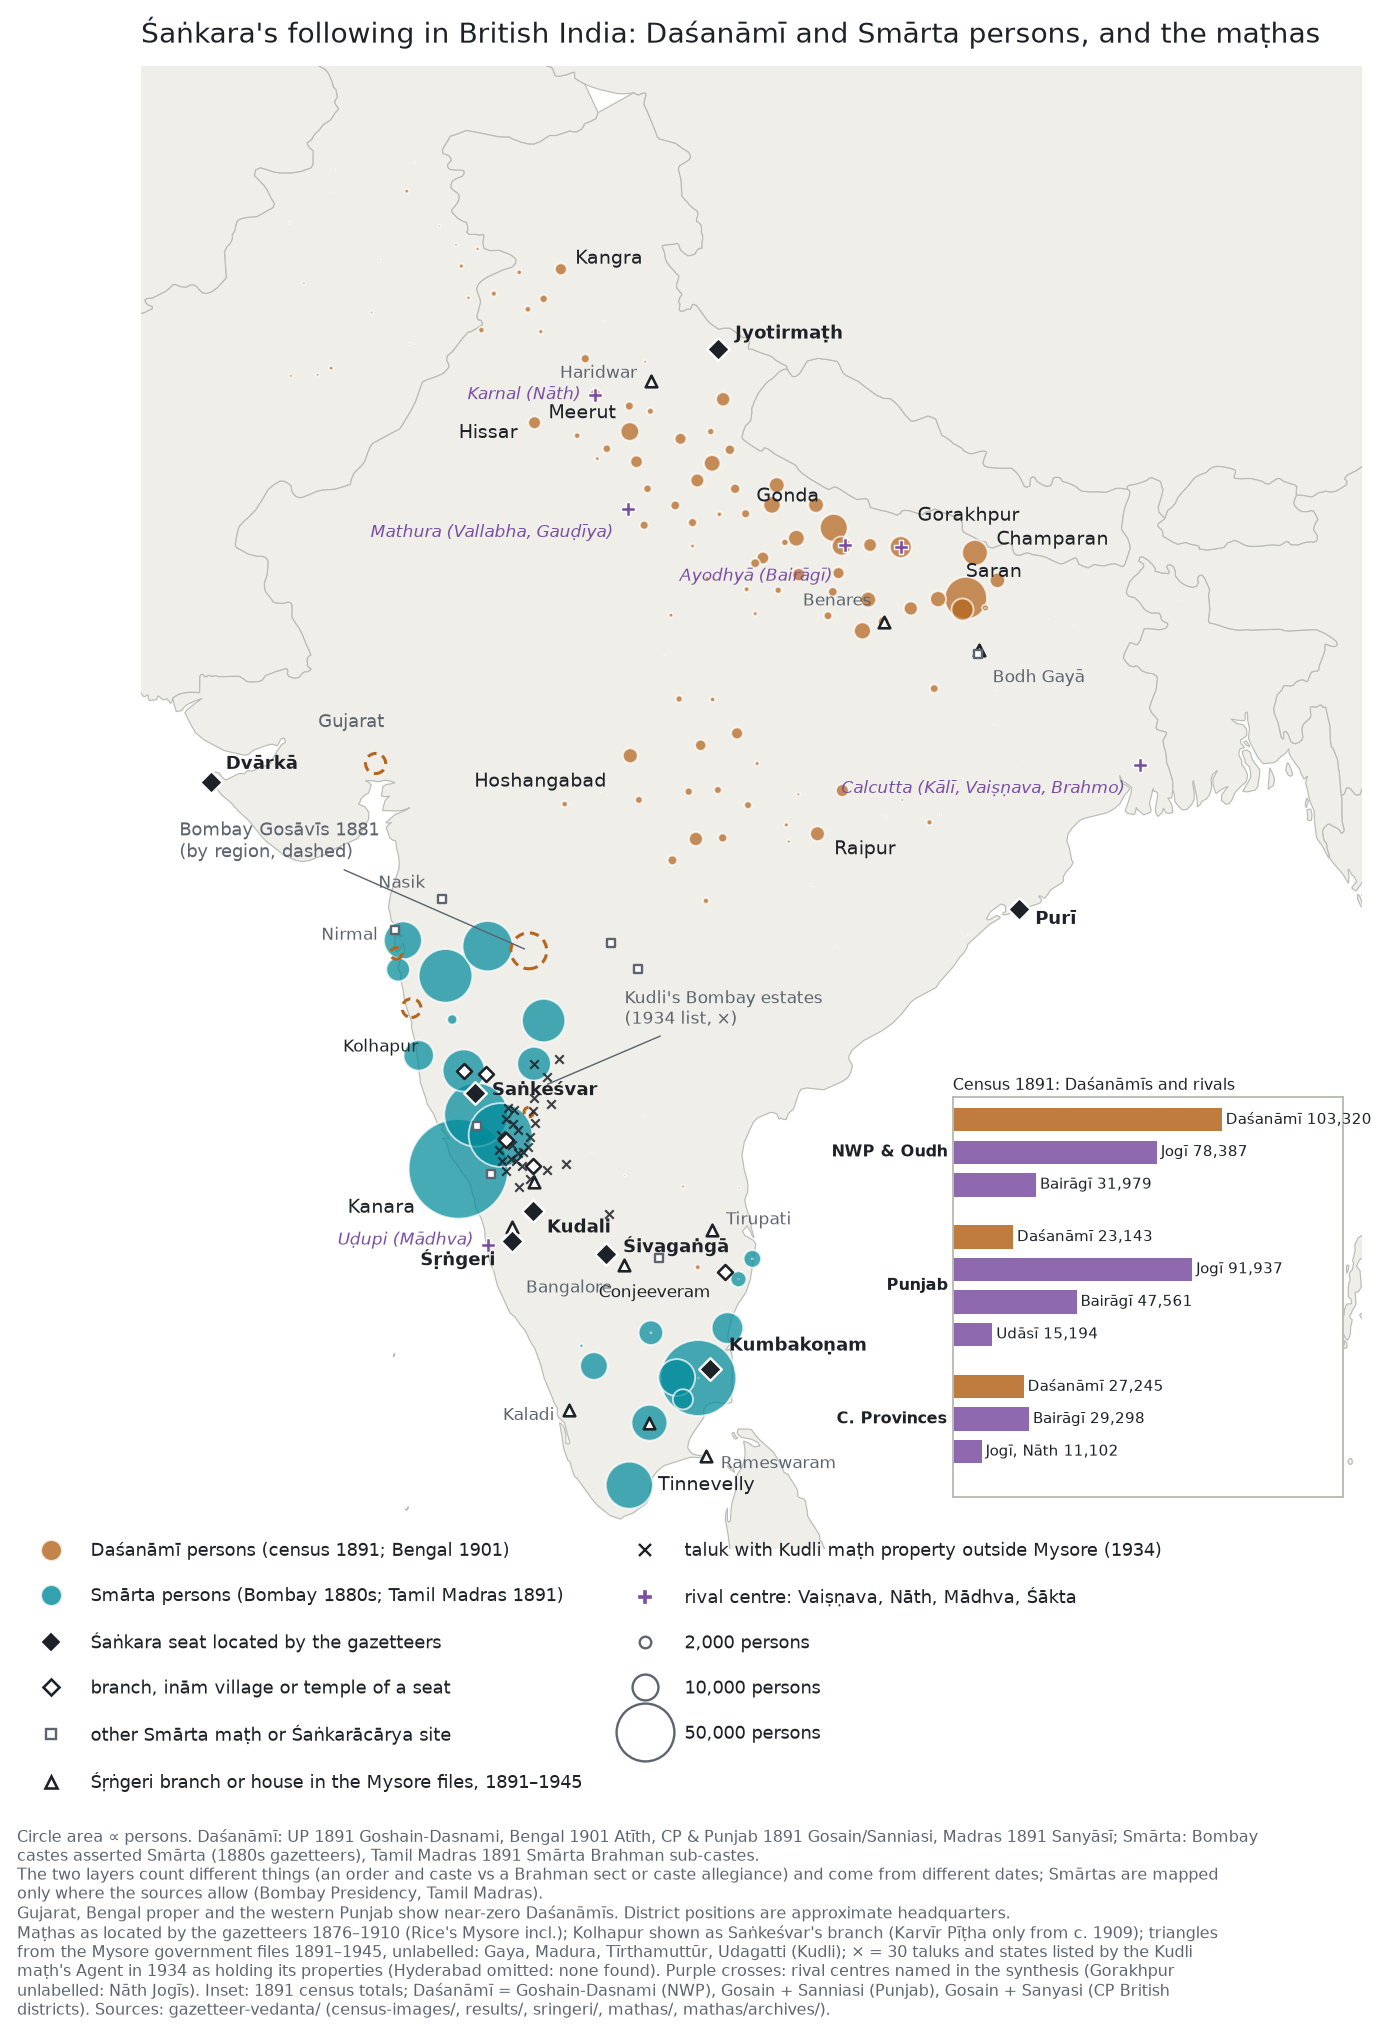
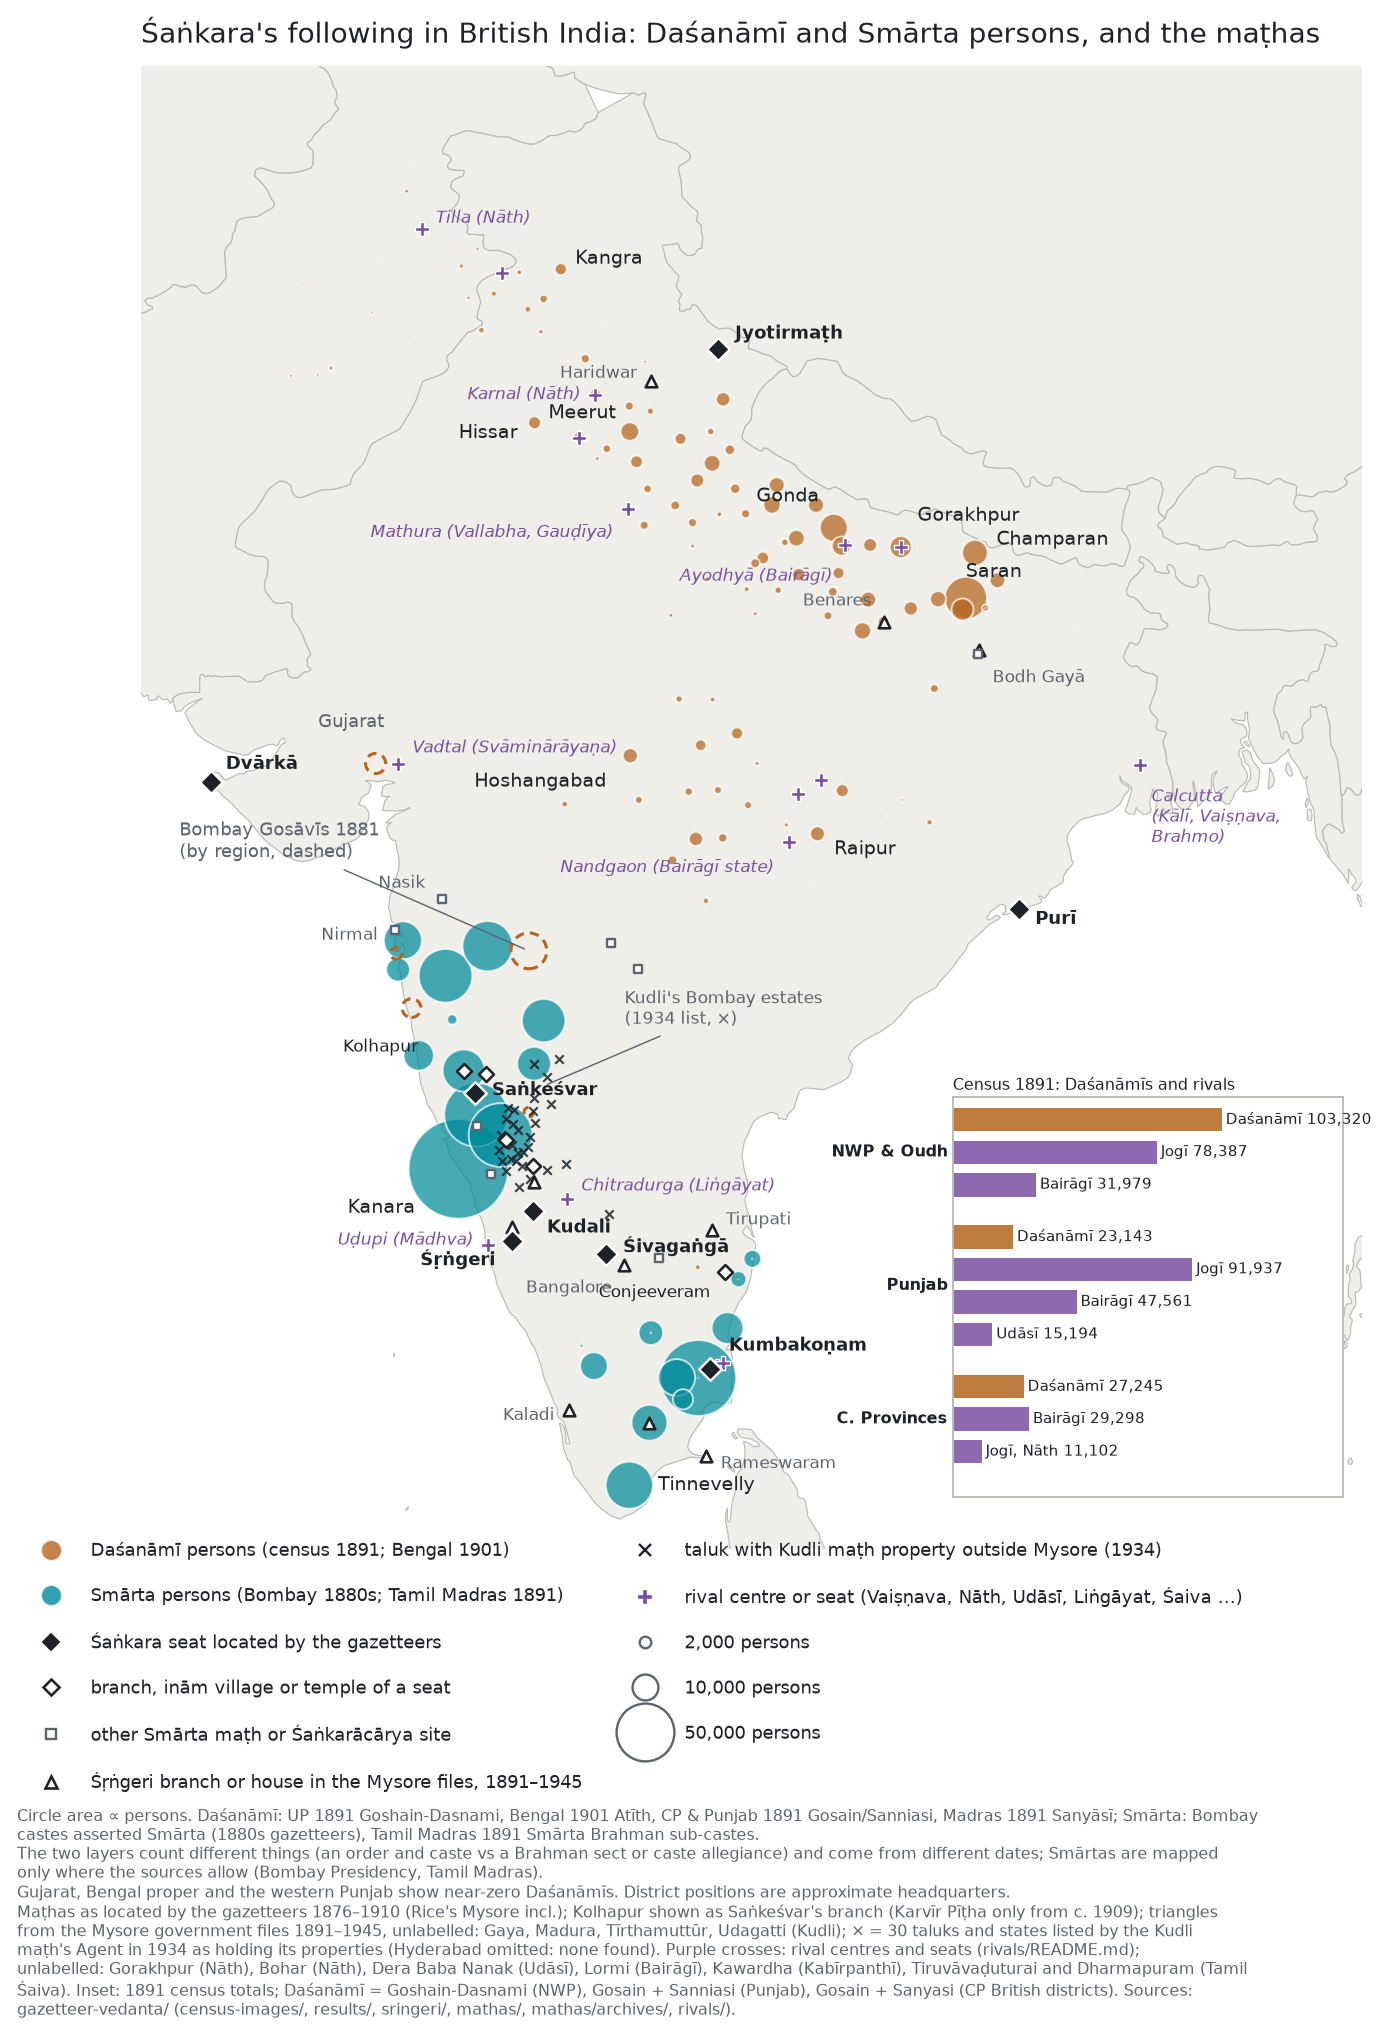
gazetteer-vedanta/map: rival seats from the rivals layer added to the combined map

Changed region(s): [[0.0, 0.8969, 0.8984, 0.9897], [0.5886, 0.7732, 0.8055, 0.8041], [0.8365, 0.3711, 0.8674, 0.4021]]

diff --git a/gazetteer-vedanta/SYNTHESIS.html b/gazetteer-vedanta/SYNTHESIS.html
@@ -111,7 +111,7 @@ footer{font-family:var(--sans);font-size:13.5px;color:var(--muted);border-top:1p
   </table></div>
   <figure class="map">
     <a href="map/combined_map.png"><img src="map/combined_map.png" alt="Map of British India. Ochre circles for Daśanāmī persons form a belt across the Ganges plain, largest in eastern UP and Bihar (Saran, Gorakhpur, Gonda, Champaran), thin in the Central Provinces and the Punjab. Teal circles for Smārta persons cluster on the Bombay Konkan and Karnatak, largest in Kanara and Dharwar, and in the Tamil delta, largest in Tanjore. Black diamonds mark the Śaṅkara seats: Śṛṅgeri, Saṅkeśvar, Kudali, Śivagaṅgā and Kumbakoṇam in the south and west, Dvārkā, Purī and Jyotirmaṭh at the edges." loading="lazy"></a>
-    <figcaption>All six regions on one map. Circle area is proportional to persons. <em class="ochre">Daśanāmīs</em> come from the census: UP, Punjab, CP and Madras 1891, Bengal 1901 (Atīths), and Bombay 1881 Gosāvīs by region only (dashed). <em class="teal">Smārtas</em> come from Bombay castes the 1880s gazetteers call Smārta and from Tamil Madras Smārta Brahman sub-castes (1891). The layers count different things at different dates, and Smārtas are mapped only where the sources allow. Black diamonds mark the Śaṅkara seats the gazetteers locate (1876–1910, Rice’s Mysore included); open diamonds mark their branches, inām villages and temples; small squares mark other Smārta maṭhs and Śaṅkarācārya sites. Triangles mark Śṛṅgeri’s branch maṭhs and houses named in the Mysore government files of 1891–1945 (Rameswaram, Kaladi, Tirupati, Bangalore, Haridwar, Benares, Gaya, Madura, Tīrthamuttūr) and Kudli’s Bombay residence at Udagatti. Small crosses mark the 30 taluks and states outside Mysore that the Kudli maṭh’s Agent listed in 1934 as holding its properties: Dharwar, Bijapur, Belgaum, North Kanara, Bellary, Anantapur and the southern Maratha states. Purple crosses mark the rival centres noted below (“Rivals”): Ayodhyā (Bairāgī), Mathura (Vallabha, Gauḍīya), Gorakhpur and Karnal (Nāth), Uḍupi (Mādhva) and Calcutta (Kālī, Vaiṣṇava, Brahmo). The inset in the Bay of Bengal compares the 1891 census totals of the Daśanāmīs with the Jogīs, Bairāgīs and Udāsīs in the NWP and Oudh, the Punjab and the Central Provinces. Kolhapur appears as Saṅkeśvar’s branch, since it became the Karvīr Pīṭha only about 1909. Positions are approximate district headquarters.</figcaption>
+    <figcaption>All six regions on one map. Circle area is proportional to persons. <em class="ochre">Daśanāmīs</em> come from the census: UP, Punjab, CP and Madras 1891, Bengal 1901 (Atīths), and Bombay 1881 Gosāvīs by region only (dashed). <em class="teal">Smārtas</em> come from Bombay castes the 1880s gazetteers call Smārta and from Tamil Madras Smārta Brahman sub-castes (1891). The layers count different things at different dates, and Smārtas are mapped only where the sources allow. Black diamonds mark the Śaṅkara seats the gazetteers locate (1876–1910, Rice’s Mysore included); open diamonds mark their branches, inām villages and temples; small squares mark other Smārta maṭhs and Śaṅkarācārya sites. Triangles mark Śṛṅgeri’s branch maṭhs and houses named in the Mysore government files of 1891–1945 (Rameswaram, Kaladi, Tirupati, Bangalore, Haridwar, Benares, Gaya, Madura, Tīrthamuttūr) and Kudli’s Bombay residence at Udagatti. Small crosses mark the 30 taluks and states outside Mysore that the Kudli maṭh’s Agent listed in 1934 as holding its properties: Dharwar, Bijapur, Belgaum, North Kanara, Bellary, Anantapur and the southern Maratha states. Purple crosses mark the rival centres noted below (“Rivals”): Ayodhyā (Bairāgī), Mathura (Vallabha, Gauḍīya), Gorakhpur and Karnal (Nāth), Uḍupi (Mādhva) and Calcutta (Kālī, Vaiṣṇava, Brahmo). They also mark the rival seats found by the coding of the rivals: Tilla and Bohar (Nāth), Dera Baba Nanak (Udāsī), Nandgaon and Lormi (Bairāgī), Kawardha (Kabīrpanthī), Chitradurga (Liṅgāyat), Vadtal (Svāminārāyaṇa), and Tiruvāvaḍuturai and Dharmapuram (Tamil Śaiva). The inset in the Bay of Bengal compares the 1891 census totals of the Daśanāmīs with the Jogīs, Bairāgīs and Udāsīs in the NWP and Oudh, the Punjab and the Central Provinces. Kolhapur appears as Saṅkeśvar’s branch, since it became the Karvīr Pīṭha only about 1909. Positions are approximate district headquarters.</figcaption>
   </figure>
 </section>
 

diff --git a/gazetteer-vedanta/map/plot_combined.py b/gazetteer-vedanta/map/plot_combined.py
@@ -208,7 +208,18 @@ RIVALS = [
     (26.76, 83.37, "", 0, 0, "left"),               # Gorakhpur: Nāth Jogīs (district already labelled)
     (29.69, 76.99, "Karnal (Nāth)", -0.3, 0.0, "right"),
     (13.34, 74.75, "Uḍupi (Mādhva)", -0.3, 0.1, "right"),
-    (22.57, 88.36, "Calcutta (Kālī, Vaiṣṇava, Brahmo)", -0.3, -0.45, "right"),
+    (22.57, 88.36, "Calcutta\n(Kālī, Vaiṣṇava,\nBrahmo)", 0.25, -1.0, "left"),
+    # rival seats from the coded rivals layer (rivals/README.md)
+    (32.88, 73.36, "Tilla (Nāth)", 0.3, 0.2, "left"),
+    (28.86, 76.65, "", 0, 0, "left"),               # Bohar: Nāth maṭh (Rohtak)
+    (32.03, 75.03, "", 0, 0, "left"),               # Dera Baba Nanak: Udāsī
+    (21.10, 81.03, "Nandgaon (Bairāgī state)", -0.3, -0.5, "right"),
+    (22.28, 81.70, "", 0, 0, "left"),               # Lormi: Bairāgī estate
+    (22.01, 81.23, "", 0, 0, "left"),               # Kawardha: Kabīrpanthī gaddī
+    (11.03, 79.53, "", 0, 0, "left"),               # Tiruvāvaḍuturai: Tamil Śaiva ādhīnam
+    (11.08, 79.65, "", 0, 0, "left"),               # Dharmapuram: Tamil Śaiva ādhīnam
+    (14.23, 76.40, "Chitradurga (Liṅgāyat)", 0.3, 0.25, "left"),
+    (22.60, 72.87, "Vadtal (Svāminārāyaṇa)", 0.3, 0.3, "left"),
 ]
 ax.scatter([r[1] for r in RIVALS], [r[0] for r in RIVALS], marker="P", s=34, c="#7a4fa3", edgecolors="white",
            linewidths=0.6, zorder=7)
@@ -284,7 +295,7 @@ handles = [Line2D([], [], marker="o", ls="", ms=9, mfc=OCHRE, mec="white", alpha
            Line2D([], [], marker="s", ls="", ms=4, mfc="white", mec=MUTED, label="other Smārta maṭh or Śaṅkarācārya site"),
            Line2D([], [], marker="^", ls="", ms=5.5, mfc="white", mec=INK, mew=1.1, label="Śṛṅgeri branch or house in the Mysore files, 1891–1945"),
            Line2D([], [], marker="x", ls="", ms=5, mec=INK, mew=1.0, label="taluk with Kudli maṭh property outside Mysore (1934)"),
-           Line2D([], [], marker="P", ls="", ms=6.5, mfc="#7a4fa3", mec="white", label="rival centre: Vaiṣṇava, Nāth, Mādhva, Śākta")]
+           Line2D([], [], marker="P", ls="", ms=6.5, mfc="#7a4fa3", mec="white", label="rival centre or seat (Vaiṣṇava, Nāth, Udāsī, Liṅgāyat, Śaiva …)")]
 for n in (2000, 10000, 50000):
     handles.append(Line2D([], [], marker="o", ls="", ms=(n * SCALE) ** 0.5, mfc="none", mec=MUTED, label=f"{n:,} persons"))
 leg = fig.legend(handles=handles, loc="lower left", bbox_to_anchor=(0.02, 0.11), fontsize=7.6, frameon=False,
@@ -297,8 +308,8 @@ import textwrap
 FOOT = ("Circle area ∝ persons. Daśanāmī: UP 1891 Goshain-Dasnami, Bengal 1901 Atīth, CP & Punjab 1891 Gosain/Sanniasi, Madras 1891 Sanyāsī; Smārta: Bombay castes asserted Smārta (1880s gazetteers), Tamil Madras 1891 Smārta Brahman sub-castes.\nThe two layers count different things (an order and caste vs a Brahman sect "
          "or caste allegiance) and come from different dates; Smārtas are mapped only where the sources allow "
          "(Bombay Presidency, Tamil Madras).\nGujarat, Bengal proper and the western Punjab show near-zero Daśanāmīs. "
-         "District positions are approximate headquarters.\nMaṭhas as located by the gazetteers 1876–1910 (Rice's Mysore incl.); Kolhapur shown as Saṅkeśvar's branch (Karvīr Pīṭha only from c. 1909); triangles from the Mysore government files 1891–1945, unlabelled: Gaya, Madura, Tīrthamuttūr, Udagatti (Kudli); × = 30 taluks and states listed by the Kudli maṭh's Agent in 1934 as holding its properties (Hyderabad omitted: none found). Purple crosses: rival centres named in the synthesis (Gorakhpur unlabelled: Nāth Jogīs). Inset: 1891 census totals; Daśanāmī = Goshain-Dasnami (NWP), Gosain + Sanniasi (Punjab), Gosain + Sanyasi (CP British districts). "
-         "Sources: gazetteer-vedanta/ (census-images/, results/, sringeri/, mathas/, mathas/archives/).")
+         "District positions are approximate headquarters.\nMaṭhas as located by the gazetteers 1876–1910 (Rice's Mysore incl.); Kolhapur shown as Saṅkeśvar's branch (Karvīr Pīṭha only from c. 1909); triangles from the Mysore government files 1891–1945, unlabelled: Gaya, Madura, Tīrthamuttūr, Udagatti (Kudli); × = 30 taluks and states listed by the Kudli maṭh's Agent in 1934 as holding its properties (Hyderabad omitted: none found). Purple crosses: rival centres and seats (rivals/README.md); unlabelled: Gorakhpur (Nāth), Bohar (Nāth), Dera Baba Nanak (Udāsī), Lormi (Bairāgī), Kawardha (Kabīrpanthī), Tiruvāvaḍuturai and Dharmapuram (Tamil Śaiva). Inset: 1891 census totals; Daśanāmī = Goshain-Dasnami (NWP), Gosain + Sanniasi (Punjab), Gosain + Sanyasi (CP British districts). "
+         "Sources: gazetteer-vedanta/ (census-images/, results/, sringeri/, mathas/, mathas/archives/, rivals/).")
 FOOT = "\n".join(textwrap.fill(par, 150) for par in FOOT.split("\n"))
 fig.text(0.02, 0.008, FOOT, fontsize=6.6, color=MUTED, va="bottom")
 plt.savefig("map/combined_map.png", bbox_inches="tight", facecolor=SEA)

diff --git a/gazetteer-vedanta/SYNTHESIS.md b/gazetteer-vedanta/SYNTHESIS.md
@@ -34,7 +34,7 @@ serving temples.
 
 ![Daśanāmī (ochre) and Smārta (teal) persons by district across the six regions](map/combined_map.png)
 
-Circle area is proportional to persons. The Daśanāmī layer comes from the census tables, and the Smārta layer covers Bombay and Tamil Madras only. Diamonds mark the Śaṅkara seats (filled) and their branches, inām villages and temples (open) as the gazetteers locate them; squares mark other Smārta maṭhs (`mathas/README.md`). Triangles mark Śṛṅgeri's branches and houses in the Mysore files, 1891–1945 (`mathas/archives/README.md`). Crosses mark the 30 taluks and states listed in 1934 as holding the Kudli maṭh's properties outside Mysore. Purple crosses mark the rival centres (see "Rivals: who else held the ground"). The inset compares the 1891 census totals of the Daśanāmīs and the rival ascetic orders. See `map/plot_combined.py`.
+Circle area is proportional to persons. The Daśanāmī layer comes from the census tables, and the Smārta layer covers Bombay and Tamil Madras only. Diamonds mark the Śaṅkara seats (filled) and their branches, inām villages and temples (open) as the gazetteers locate them; squares mark other Smārta maṭhs (`mathas/README.md`). Triangles mark Śṛṅgeri's branches and houses in the Mysore files, 1891–1945 (`mathas/archives/README.md`). Crosses mark the 30 taluks and states listed in 1934 as holding the Kudli maṭh's properties outside Mysore. Purple crosses mark the rival centres and the rival seats from `rivals/` (Tilla, Bohar, Dera Baba Nanak, Nandgaon, Lormi, Kawardha, Chitradurga, Vadtal, Tiruvāvaḍuturai, Dharmapuram). The inset compares the 1891 census totals of the Daśanāmīs and the rival ascetic orders. See `map/plot_combined.py`.
 
 1. **The west-coast belt under Śṛṅgeri.** This is the one region where a Śaṅkara seat commands much of the
    population, non-Brahmins included.
